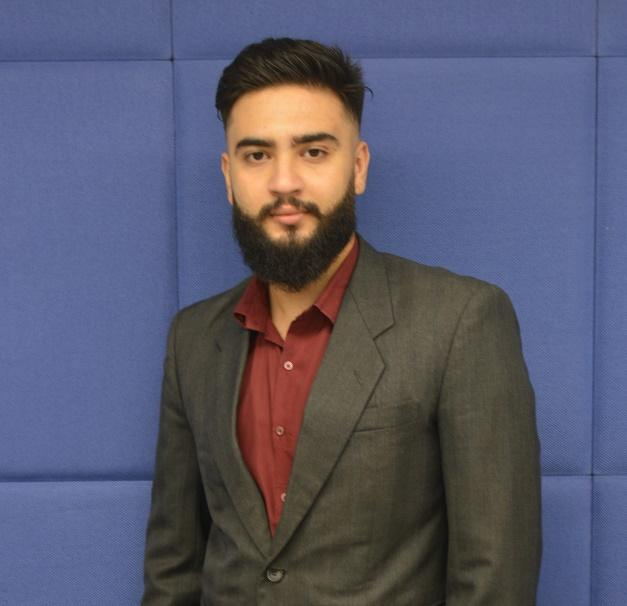
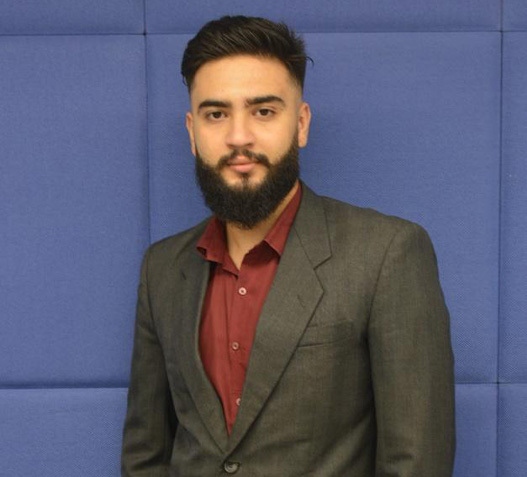
fixed ui

diff --git a/AshreiTech_ReactJs/src/screens/InfoCard/InfoCard.jsx b/AshreiTech_ReactJs/src/screens/InfoCard/InfoCard.jsx
@@ -1,52 +1,40 @@
 import React, { useState } from 'react';
 import style from "./style.module.css";
-import Countup from "react-countup"
+import Countup from "react-countup";
 import ScrollTrigger from 'react-scroll-trigger';
 
-
 const InfoCard = (props) => {
-    const { Info_container, vector, gradientCircle } = style;
-    const [counter, setCounter] = useState(false)
+    const { Info_container, vector, gradientCircle, item } = style;
+    const [counter, setCounter] = useState(false);
 
     return (
-        <>
-            <ScrollTrigger onEnter={() => setCounter(true)} onExit={() => setCounter(false)}>
-                <div className={`${Info_container}  p-1 mt-5 mx-lg-5`}>
-                    {/* <div className={`${gradientCircle} d-none d-lg-block `} style={{position:'relative', zIndex:'-2'}}></div> */}
-                    <div className={` d-flex  ${props?.data?.length == 4 ? 'px-5  justify-content-between' : "justify-content-center"}  align-items-center  pt-4`}>
-                        {
-                            props?.data?.map(({ image, heading, discription }) => {
-                                const updatedDescription = discription.replace(/[K+]/g, '');
-                                return <div className={` ${props?.data?.length == 4 ? '' : "col-12 col-md-3 col-lg-2 "}  d-flex align-items-center justify-content-center mb-3`}>
-                                    <div>
-                                        <img src={image} className={`${vector} mr-2`} style={{ width: '65%',}} alt="Students" />
-                                    </div>
-                                    <div className='ml-n3'>
-                                        <h6 style={{ fontWeight: '' }}>{heading}</h6>
-                                        {!props.count && <h6 style={{ fontWeight: 'bold' }}>{discription}</h6>}
-                                        {
-                                            props.count && counter &&
-                                            <h6 style={{ fontWeight: 'bold' }}> <Countup
-                                                start={0}
-                                                end={updatedDescription}
-                                            ></Countup>+</h6>
-                                        }
-
-                                    </div>
+        <ScrollTrigger onEnter={() => setCounter(true)} onExit={() => setCounter(false)}>
+            <div className={`${Info_container} p-1 mt-5 mx-0 mx-lg-5`}>
+                <div className={`d-flex ${props?.data?.length === 4 ? 'px-5 justify-content-between' : 'flex-wrap justify-content-center'} align-items-center pt-4`}>
+                    {props?.data?.map(({ image, heading, discription }, index) => {
+                        const updatedDescription = parseInt(discription.replace(/[K+]/g, ''), 10);
+                        return (
+                            <div key={index} className={`${item} ${props?.data?.length === 4 ? '' : 'col-12 col-md-3 col-lg-2'} d-flex align-items-center justify-content-center mb-3`}>
+                                <div>
+                                    <img src={image} className={`${vector} mr-2`} style={{ width: '65%' }} alt="Students" />
                                 </div>
-                            })
-                        }
-
-                    </div>
-                       {/* Circle with Gradient */}
-            {
-                props?.gradient == false ? '' :<div className={`${gradientCircle} d-none d-lg-block `}></div>
-            }
+                                <div className='ml-n3'>
+                                    <h6>{heading}</h6>
+                                    {!props.count && <h6 style={{ fontWeight: 'bold' }}>{discription}</h6>}
+                                    {props.count && counter &&
+                                        <h6 style={{ fontWeight: 'bold' }}>
+                                            <Countup start={0} end={updatedDescription} />+
+                                        </h6>
+                                    }
+                                </div>
+                            </div>
+                        );
+                    })}
                 </div>
-            </ScrollTrigger>
-
-        </>
+                {props?.gradient !== false && <div className={`${gradientCircle} d-none d-lg-block`}></div>}
+            </div>
+        </ScrollTrigger>
     );
-}
+};
 
 export default InfoCard;

diff --git a/AshreiTech_ReactJs/src/style/index.css b/AshreiTech_ReactJs/src/style/index.css
@@ -92,7 +92,7 @@
     display: block;
   }
   *{
-    font-family: 'Roboto', sans-serif;
+    font-family: 'Roboto';
   }
   ol, ul {
     list-style: none;
@@ -124,7 +124,7 @@
   body {
     background: #fff;
     color: black;
-    font-family: 'Roboto', sans-serif;
+    font-family: 'Roboto';
     overflow-x: hidden;
     font-size: 16px;
     font-weight: 400;
@@ -156,35 +156,35 @@
       padding: 10px  10px !important;
 }
 }
- @font-face {
+ /* @font-face {
    font-family: lato_medium;
    src: url("../assets/fonts/Lato-Medium/lato/Lato-Medium.ttf");
- }
+ } */
 
- @font-face {
+ /* @font-face {
    font-family: lato_regular;
    src: url("../assets/fonts/Lato-Medium/lato/Lato-Regular.ttf");
- }
+ } */
 
- p {
+ /* p {
    font-family: lato_regular !important;
- }
+ } */
 
- /* h1,
+ h1,
  h2,
  h3,
  h4,
  h5,
  h6 {
-   font-family: lato_medium !important;
- } */
+   /* font-family: lato_medium !important; */
+ }
 
- /* h1 span,
+ h1 span,
  h2 span,
  h3 span {
-   font-family: lato_medium !important;
+   /* font-family: lato_medium !important; */
 
- } */
+ }
 
  /* HTML5 display-role reset for older browsers */
  article,
@@ -202,7 +202,7 @@
  }
 
  * {
-   font-family: 'Roboto', sans-serif;
+   font-family: 'Roboto';
  }
 
  ol,
@@ -247,7 +247,7 @@
  body {
    background: #fff;
    color: black;
-   font-family: 'Roboto', sans-serif;
+   font-family: 'Roboto';
    overflow-x: hidden;
    font-size: 16px;
    font-weight: 400;
@@ -1040,26 +1040,14 @@
 .coursegradientCircle:before {
   content: "";
   position: absolute;
-  right: -95px;
-  bottom: 0px;
+  right: -30px;
+  bottom: 0;
   width: 639px;
   height: 1030px;
-  background: radial-gradient(circle,rgba(0, 143, 112, 0.295) 4%, rgb(255 255 255 / 0%) 51%);
-  top: -507px;
+  background: radial-gradient(circle, rgb(158 212 180 / 39%) 30%, rgb(255 255 255 / 0%) 51%);
+  top: -314px;
   background-position: center;
-  z-index: -1 !important;
-}
-.coursegradientCircle2:before {
-  content: "";
-  position: absolute;
-  right: -21px;
-  bottom: -195px;
-  width: 639px;
-  height: 1030px;
-  background: radial-gradient(circle, rgba(0, 143, 112, 0.295) 14%, rgb(255 255 255 / 0%) 51%);
-  /* top: -469px; */
-  background-position: center;
-  z-index: -1 !important;
+  z-index:-1 !important;
 }
 
 
@@ -1328,7 +1316,7 @@
    border-radius: 3px;
    /* width: 10%; */
    font-size: 14px;
-   font-family: 'Roboto', sans-serif;
+   font-family: 'Roboto';
    color: white;
    background-color: #7C2916;
    text-align: center;

diff --git a/AshreiTech_ReactJs/src/components/Elements/TestimonialSlider.jsx b/AshreiTech_ReactJs/src/components/Elements/TestimonialSlider.jsx
@@ -76,6 +76,20 @@ export default function TestimonialSlider() {
     autoplaySpeed: 3000,
     responsive: [
       {
+        breakpoint: 1200,
+        settings: {
+          slidesToShow: 2,
+          slidesToScroll: 1,
+        },
+      },
+      {
+        breakpoint: 800,
+        settings: {
+          slidesToShow: 2,
+          slidesToScroll: 1,
+        },
+      },
+      {
         breakpoint: 600,
         settings: {
           slidesToShow: 2,
@@ -100,19 +114,20 @@ export default function TestimonialSlider() {
             <Card key={index}>
               <div className="card-body pb-0">
                 <div className="row d-flex justify-content-left align-items-center">
-                  <div className="col-3" style={{width:'50px', height:'50px'}}>
+                  <div className="" style={{width:'50px', height:'50px'}}>
                     <img
                       src={card.imgSrc}
                       alt={card.name}
-                      className="rounded-circle custom-img"
+                      className="rounded-circle custom-img "
+                      style={{width: "100%", height:'auto'}}
                     />
                   </div>
-                  <div className="col-2">
+                  <div className="col-1">
                     <a href={card.linkedinUrl} target="_blank" rel="noopener noreferrer">
                       <i className="fa-brands fa-linkedin"></i>
                     </a>
                   </div>
-                  <div className="" >
+                  <div className="col-8" >
                     <h5 className="font-weight-bolder">{card.name}</h5>
                     <h6 className="">{card.title}</h6>
                   </div>

diff --git a/AshreiTech_ReactJs/src/screens/AsheriTechComponents/AdmissionEnquiery/AdmissionEnquiery.css b/AshreiTech_ReactJs/src/screens/AsheriTechComponents/AdmissionEnquiery/AdmissionEnquiery.css
@@ -1,8 +1,8 @@
 * {
-    font-family: 'Roboto', sans-serif;
+    font-family: 'Roboto';
 }
 body{
-    font-family: 'Roboto', sans-serif;
+    font-family: 'Roboto';
 }
 .background {
     background-image: url('../../../assets/puzzlePicture.png');
@@ -36,7 +36,7 @@ body{
     background-color: #7C2916;
     text-align: center;
     align-items: center;
-    font-family: 'Roboto', sans-serif;
+    font-family: 'Roboto';
 }
 
 .no-outline:focus {

diff --git a/AshreiTech_ReactJs/src/components/Sections/Blog.jsx b/AshreiTech_ReactJs/src/components/Sections/Blog.jsx
@@ -168,7 +168,7 @@ export default function Blog() {
 const WrapperForP = styled.div`
   .pclass{
     background-color: #5A8C75;
-    color: #fff;
+    color: #ffffff;
     border-radius:50px;
     font-size:12px;
   }
